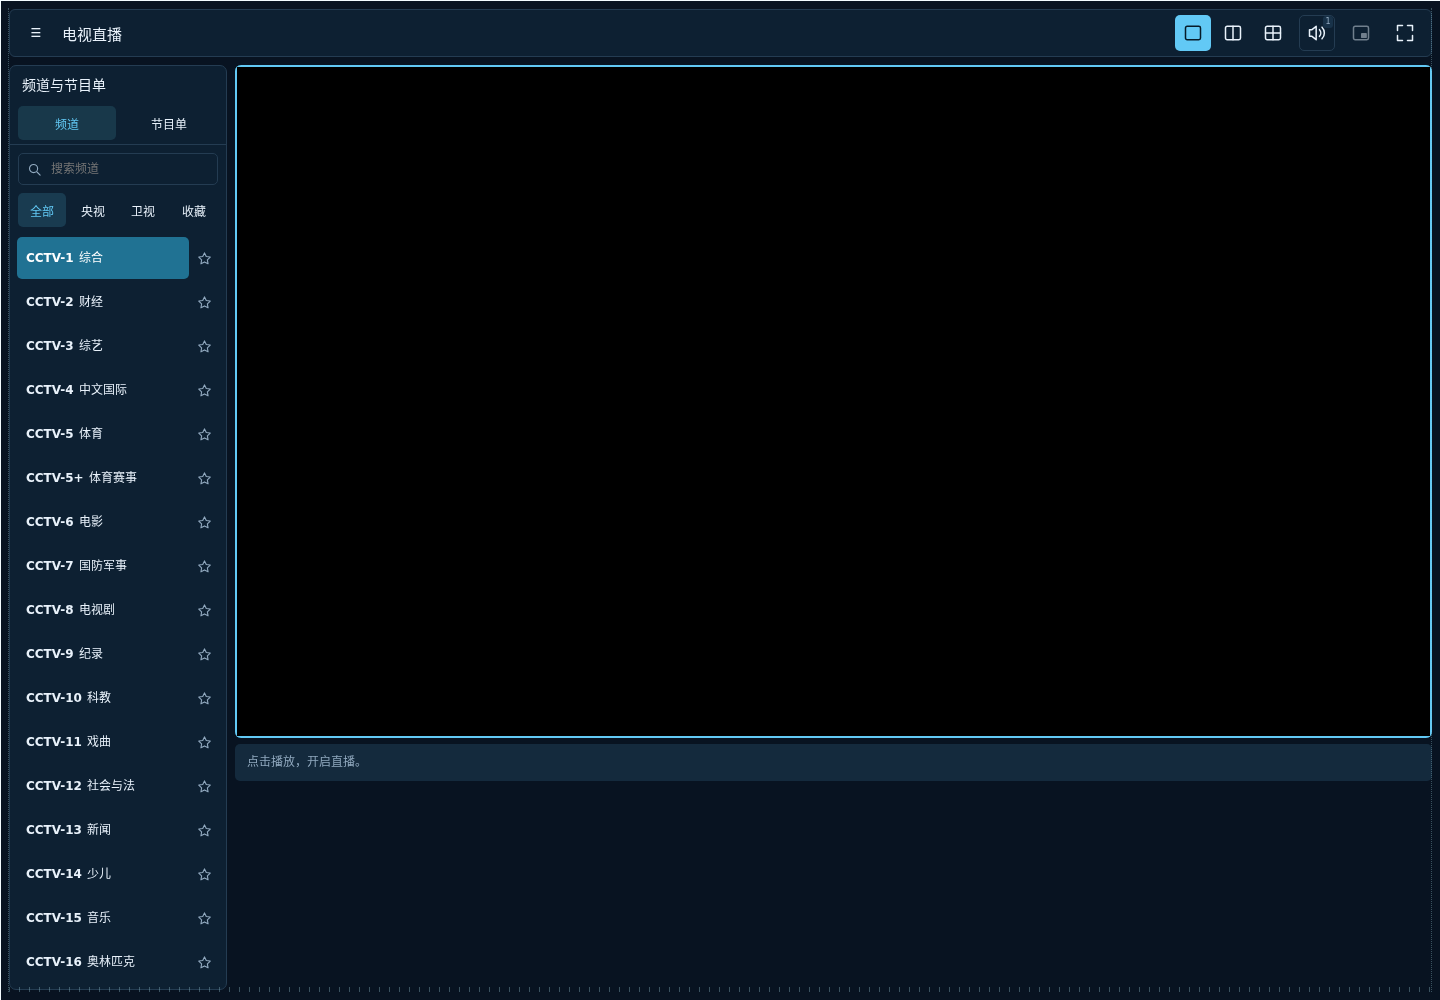
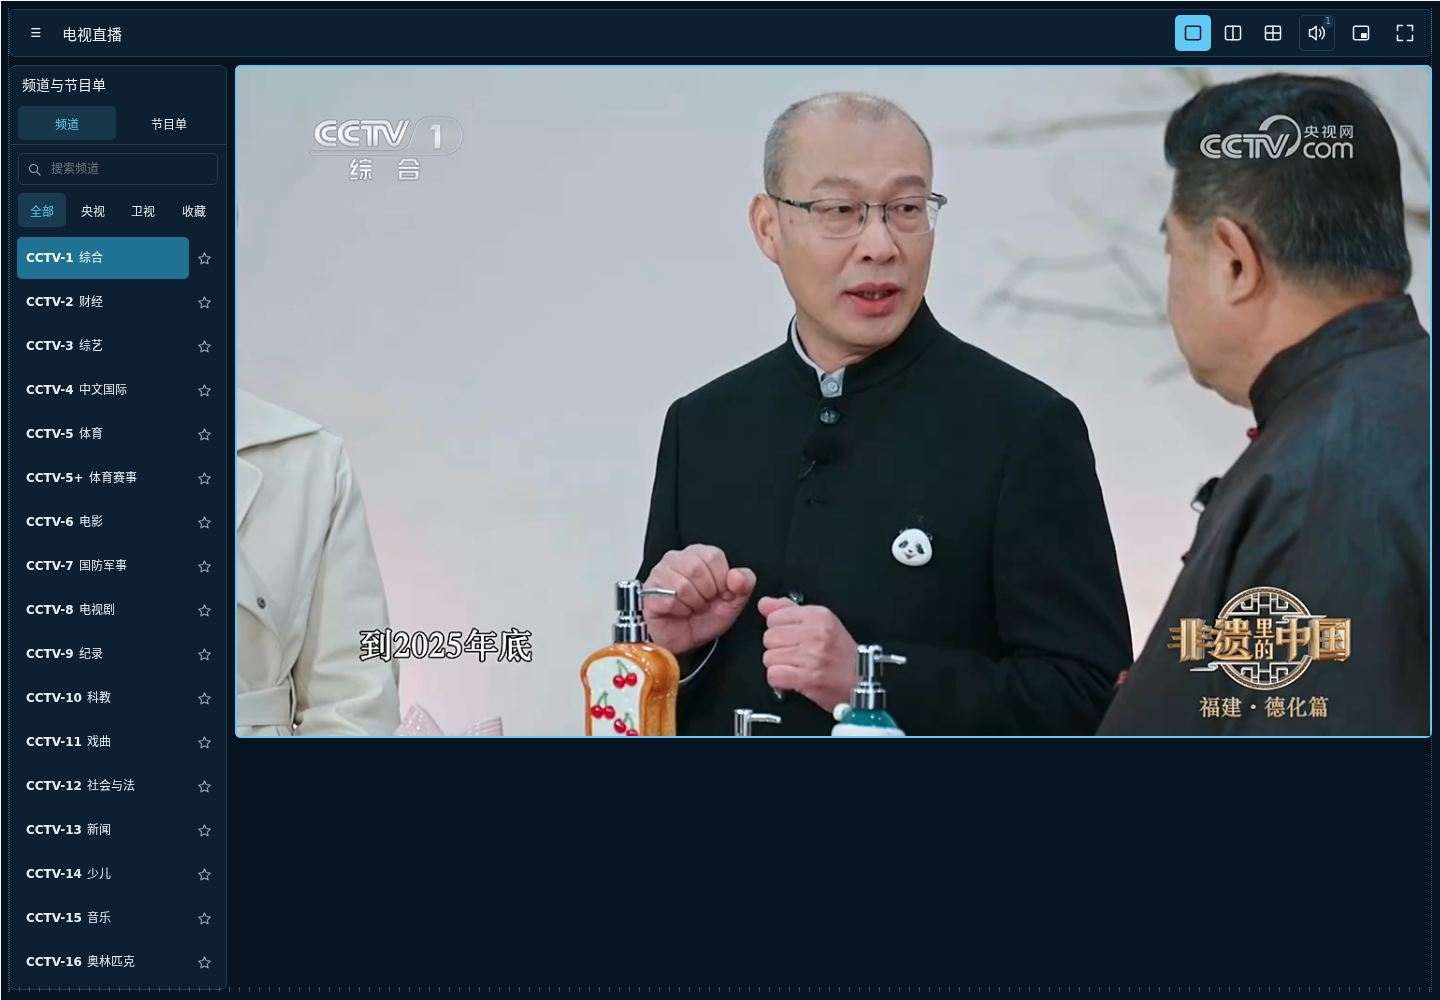
docs: show live CCTV-1 and US Biz TV playback in README

diff --git a/docs/screenshots/README.md b/docs/screenshots/README.md
@@ -15,7 +15,7 @@
 - 拍摄日期：2026-11-21；桌面视口 1440 × 1000。
 - 覆盖 Craft 系列、国内电视直播、世界电视、街机游戏厅和 WebRTC 会议室。
 - 来源链接见 [extensions-sources.json](extensions-sources.json)。第三方工具资源独立于 BookStark 主程序发布，不能仅凭主程序提交号确定其版本。
-- 截图展示真实运行界面；未伪造 AI 回答、通话参与者或直播画面。会议图为进入房间前的界面，直播图为频道选择及播放入口。
+- 截图展示真实运行界面；未伪造 AI 回答、通话参与者或直播画面。会议图为进入房间前的界面；国内直播图为 CCTV-1 综合频道实际播放，世界电视图为美国 Biz TV 实际播放。两张直播图均在确认视频有尺寸、未暂停且播放时间持续增加后截取。
 - 更新截图时等待工具资源加载完成，不能使用加载中或错误页面；工具自身的示例与欢迎界面可以保留。
 
 ## 书签与浏览器扩展
